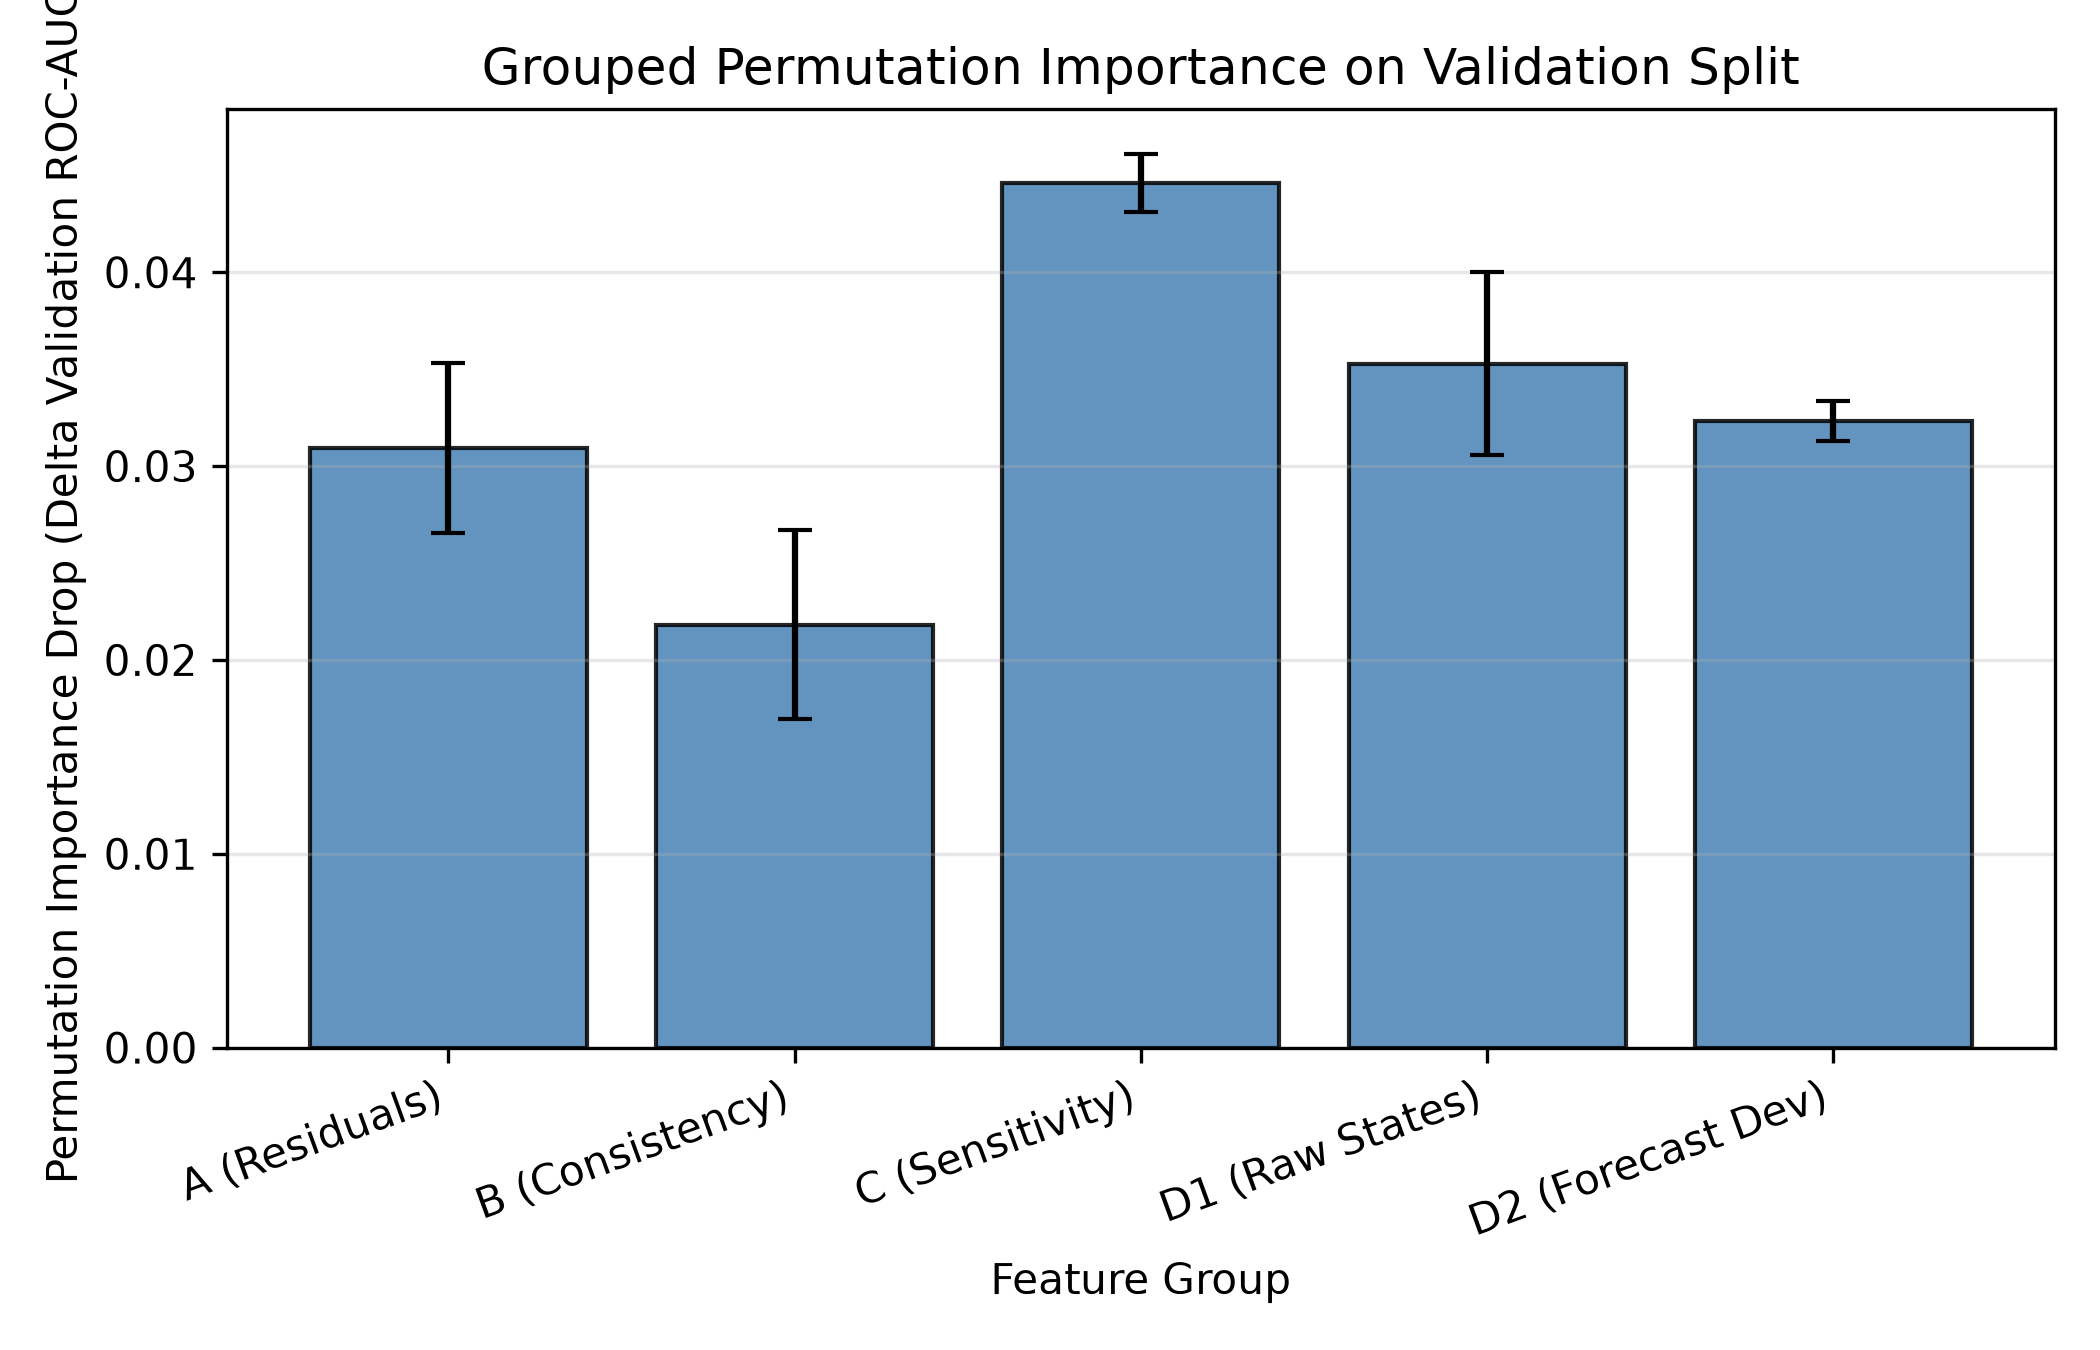
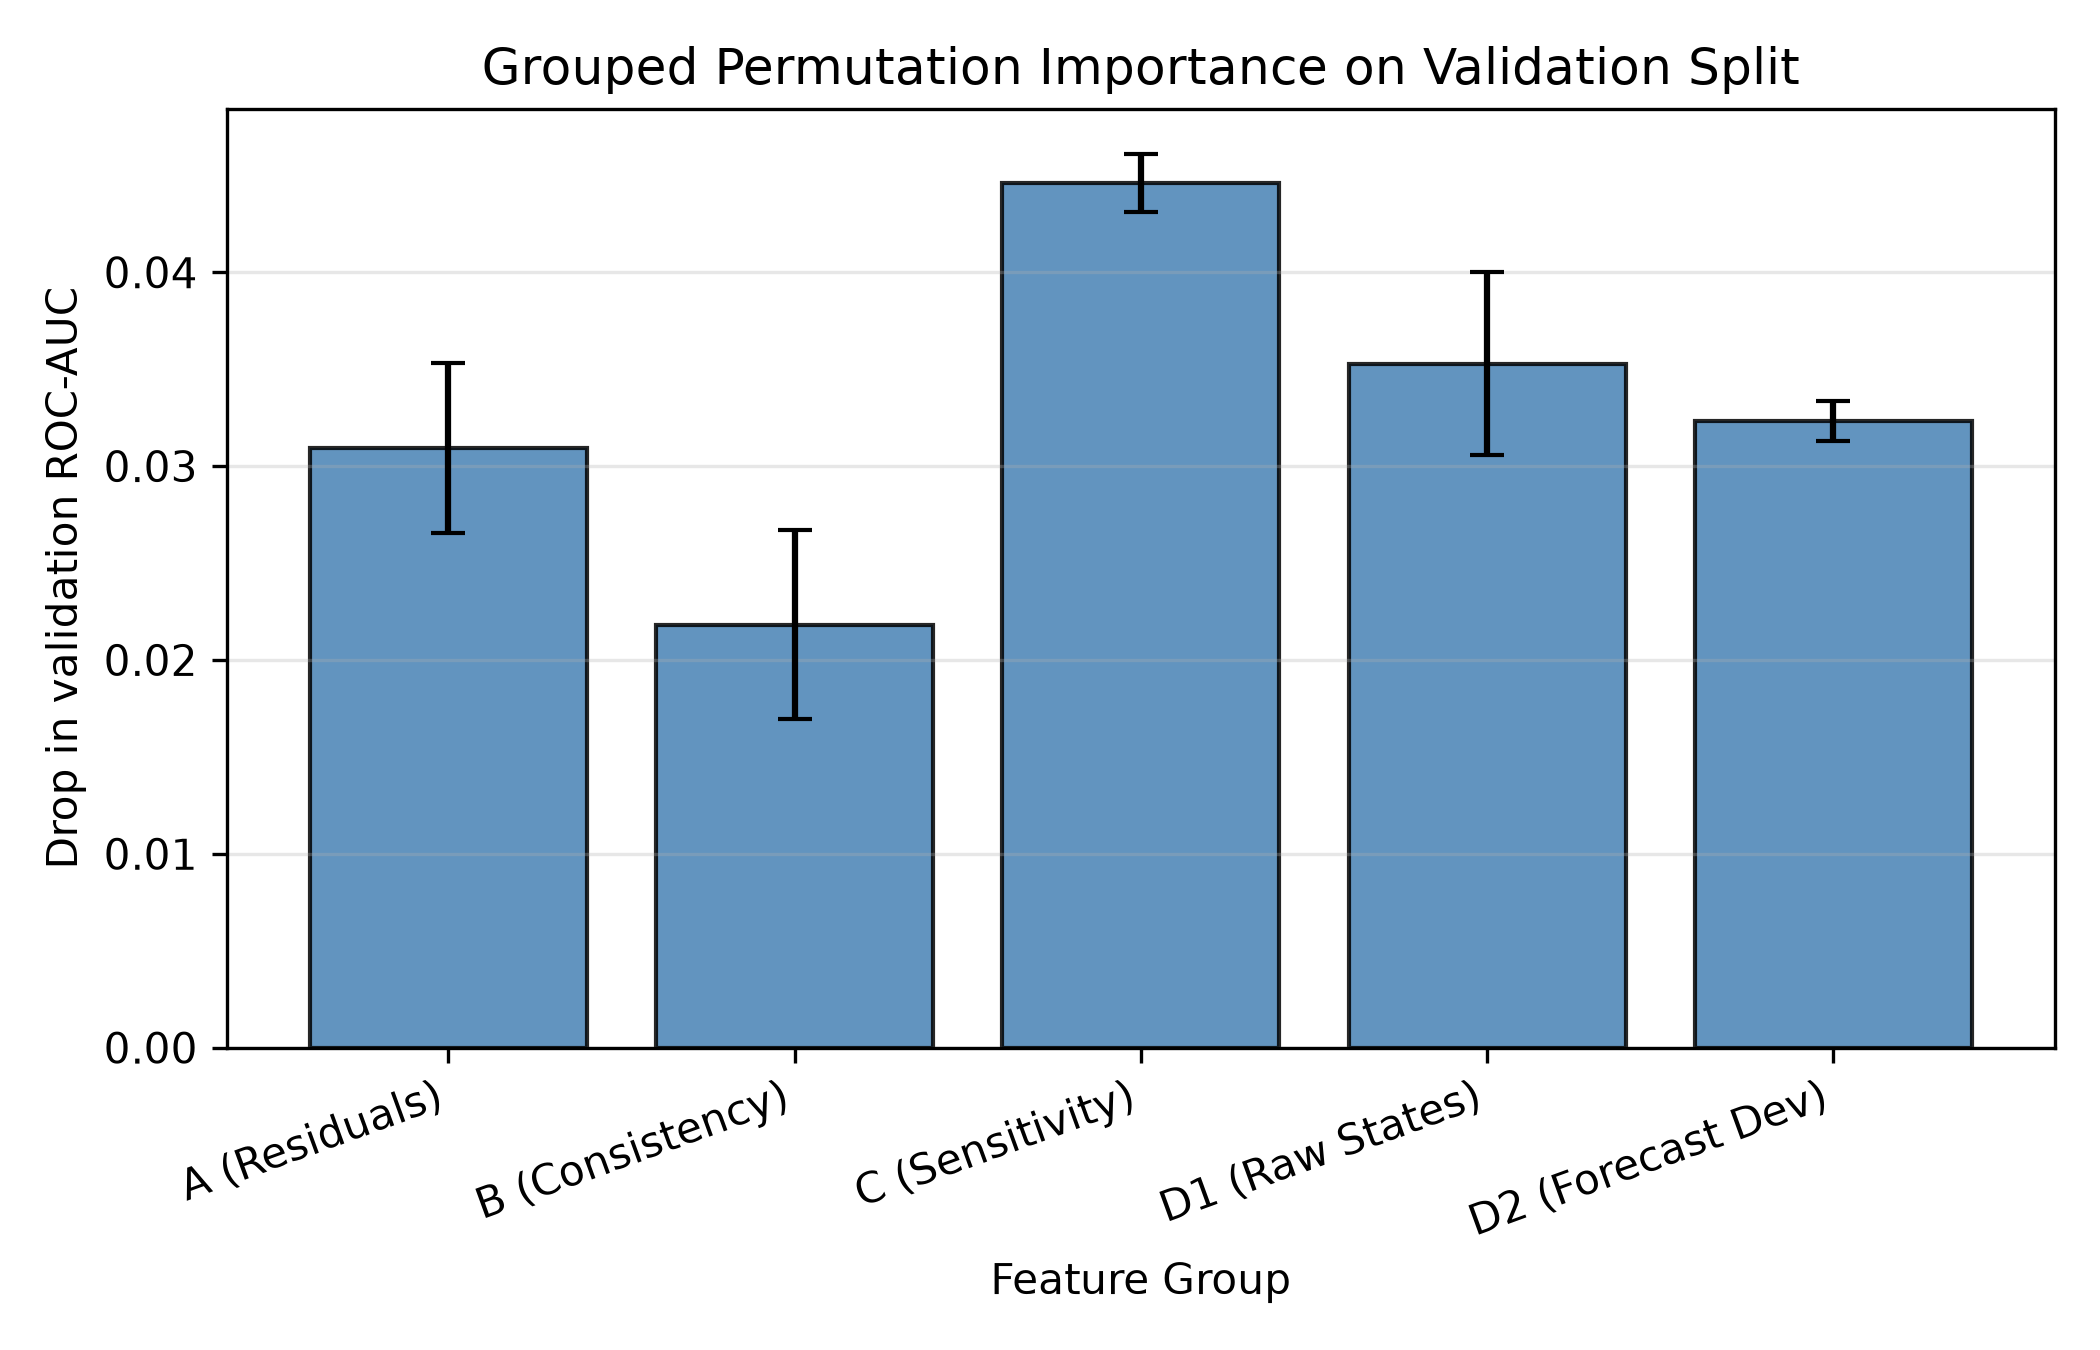
Fix score_distributions.png log scale and importance_bar_chart.png y-axis label

diff --git a/python/run_task8.py b/python/run_task8.py
@@ -835,21 +835,29 @@ def main():
     plt.legend(fontsize=7)
 
     plt.subplot(1, 3, 2)
-    plt.hist(ae_prim_test_scores[norm_mask_test], bins=30, density=True, alpha=0.5, label="Normal", color="gray")
-    plt.hist(ae_prim_test_scores[exact_mask_test], bins=30, density=True, alpha=0.6, label="Exact AC", color="crimson")
-    plt.hist(ae_prim_test_scores[att_mask_test & ~exact_mask_test], bins=30, density=True, alpha=0.5, label="Other Attacks", color="royalblue")
+    min_ae = max(1e-3, float(np.min(ae_prim_test_scores)))
+    max_ae = float(np.max(ae_prim_test_scores))
+    bins_ae = np.logspace(np.log10(min_ae), np.log10(max_ae), 35)
+    plt.hist(ae_prim_test_scores[norm_mask_test], bins=bins_ae, density=True, alpha=0.5, label="Normal", color="gray")
+    plt.hist(ae_prim_test_scores[exact_mask_test], bins=bins_ae, density=True, alpha=0.6, label="Exact AC", color="crimson")
+    plt.hist(ae_prim_test_scores[att_mask_test & ~exact_mask_test], bins=bins_ae, density=True, alpha=0.5, label="Other Attacks", color="royalblue")
     plt.axvline(ae_prim_th_5fa, color="black", linestyle="--", label="Val 5% FA Thresh")
-    plt.xlabel("Autoencoder Reconstruction MSE")
+    plt.xscale("log")
+    plt.xlabel("Autoencoder Reconstruction MSE (log scale)")
     plt.ylabel("Density")
     plt.title("Autoencoder Score Distribution")
     plt.legend(fontsize=7)
 
     plt.subplot(1, 3, 3)
-    plt.hist(mahal_test[norm_mask_test], bins=30, density=True, alpha=0.5, label="Normal", color="gray")
-    plt.hist(mahal_test[exact_mask_test], bins=30, density=True, alpha=0.6, label="Exact AC", color="crimson")
-    plt.hist(mahal_test[att_mask_test & ~exact_mask_test], bins=30, density=True, alpha=0.5, label="Other Attacks", color="royalblue")
+    min_m = max(1e-2, float(np.min(mahal_test)))
+    max_m = float(np.max(mahal_test))
+    bins_m = np.logspace(np.log10(min_m), np.log10(max_m), 35)
+    plt.hist(mahal_test[norm_mask_test], bins=bins_m, density=True, alpha=0.5, label="Normal", color="gray")
+    plt.hist(mahal_test[exact_mask_test], bins=bins_m, density=True, alpha=0.6, label="Exact AC", color="crimson")
+    plt.hist(mahal_test[att_mask_test & ~exact_mask_test], bins=bins_m, density=True, alpha=0.5, label="Other Attacks", color="royalblue")
     plt.axvline(mahal_th_5fa, color="black", linestyle="--", label="Val 5% FA Thresh")
-    plt.xlabel("Mahalanobis Distance D_M")
+    plt.xscale("log")
+    plt.xlabel("Mahalanobis Distance D_M (log scale)")
     plt.ylabel("Density")
     plt.title("Mahalanobis Score Distribution")
     plt.legend(fontsize=7)
@@ -864,7 +872,7 @@ def main():
     g_drops = [group_importances[k]["mean_drop"] for k in ["a", "b", "c", "d1", "d2"]]
     g_errs = [group_importances[k]["std_drop"] for k in ["a", "b", "c", "d1", "d2"]]
     plt.bar(g_labels, g_drops, yerr=g_errs, capsize=4, color="steelblue", edgecolor="black", alpha=0.85)
-    plt.ylabel("Permutation Importance Drop (Delta Validation ROC-AUC)")
+    plt.ylabel("Drop in validation ROC-AUC")
     plt.xlabel("Feature Group")
     plt.title("Grouped Permutation Importance on Validation Split")
     plt.grid(axis="y", alpha=0.3)
